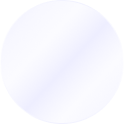
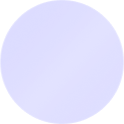
updated light mode, made more visable

diff --git a/src/App.css b/src/App.css
@@ -53,7 +53,7 @@ body {
   padding: 80px;
   width: 1000px;
   background-repeat: no-repeat;
-  background-image: url(/src/images/Outer-light1.png);
+  background-image: url(/src/images/Outer-light.png);
   color: white;
   padding-top: 40px;
   z-index: 1;
@@ -67,7 +67,7 @@ body {
   padding: 80px;
   width: 1000px;
   background-repeat: no-repeat;
-  background-image: url(/src/images/Outer-light1.png);
+  background-image: url(/src/images/Outer-light.png);
   color: white;
   padding-top: 40px;
   z-index: 1;
@@ -276,7 +276,7 @@ body {
   padding-top: 160px;
   z-index: 11;
   font-family: MersadBold;
-  color: #AEAEAE;
+  color: rgb(126, 120, 120);
 }
 
 .value {
@@ -291,7 +291,7 @@ body {
   z-index: 11;
   padding-top: 115px;
   font-family: MersadBold;
-  color: #545454;
+  color: rgb(31, 31, 31);
 }
 
 .time {
@@ -310,7 +310,7 @@ body {
   left: 165px;
   font-size: 32px;
   font-weight: bold;
-  color: #545454;
+  color: rgb(31, 31, 31);
   font-family: MersadBold;
 }
 
@@ -330,7 +330,7 @@ body {
   left: 565px;
   font-size: 32px;
   font-weight: bold;
-  color: #545454;
+  color: rgb(31, 31, 31);
   font-family: MersadBold;
 }
 

diff --git a/src/App.js b/src/App.js
@@ -8,12 +8,14 @@ export const ThemeContext = createContext(null);
 
 // Define the getThemeForTime function first
 function getThemeForTime(currentHour, currentMinute) {
-  if ((currentHour === 6 && currentMinute >= 0) || (currentHour >= 7 && currentHour < 18) || (currentHour === 18 && currentMinute === 0)) {
+  if ((currentHour === 6 && currentMinute >= 0) || (currentHour >= 7 && currentHour < 23) || (currentHour === 23 && currentMinute === 0)) {
     return "light";
   } else {
     return "dark";
   }
 }
+
+
 function App() {
   // Declare state variables for speed, RPM, and time
   const [speed, setSpeed] = useState(null);
